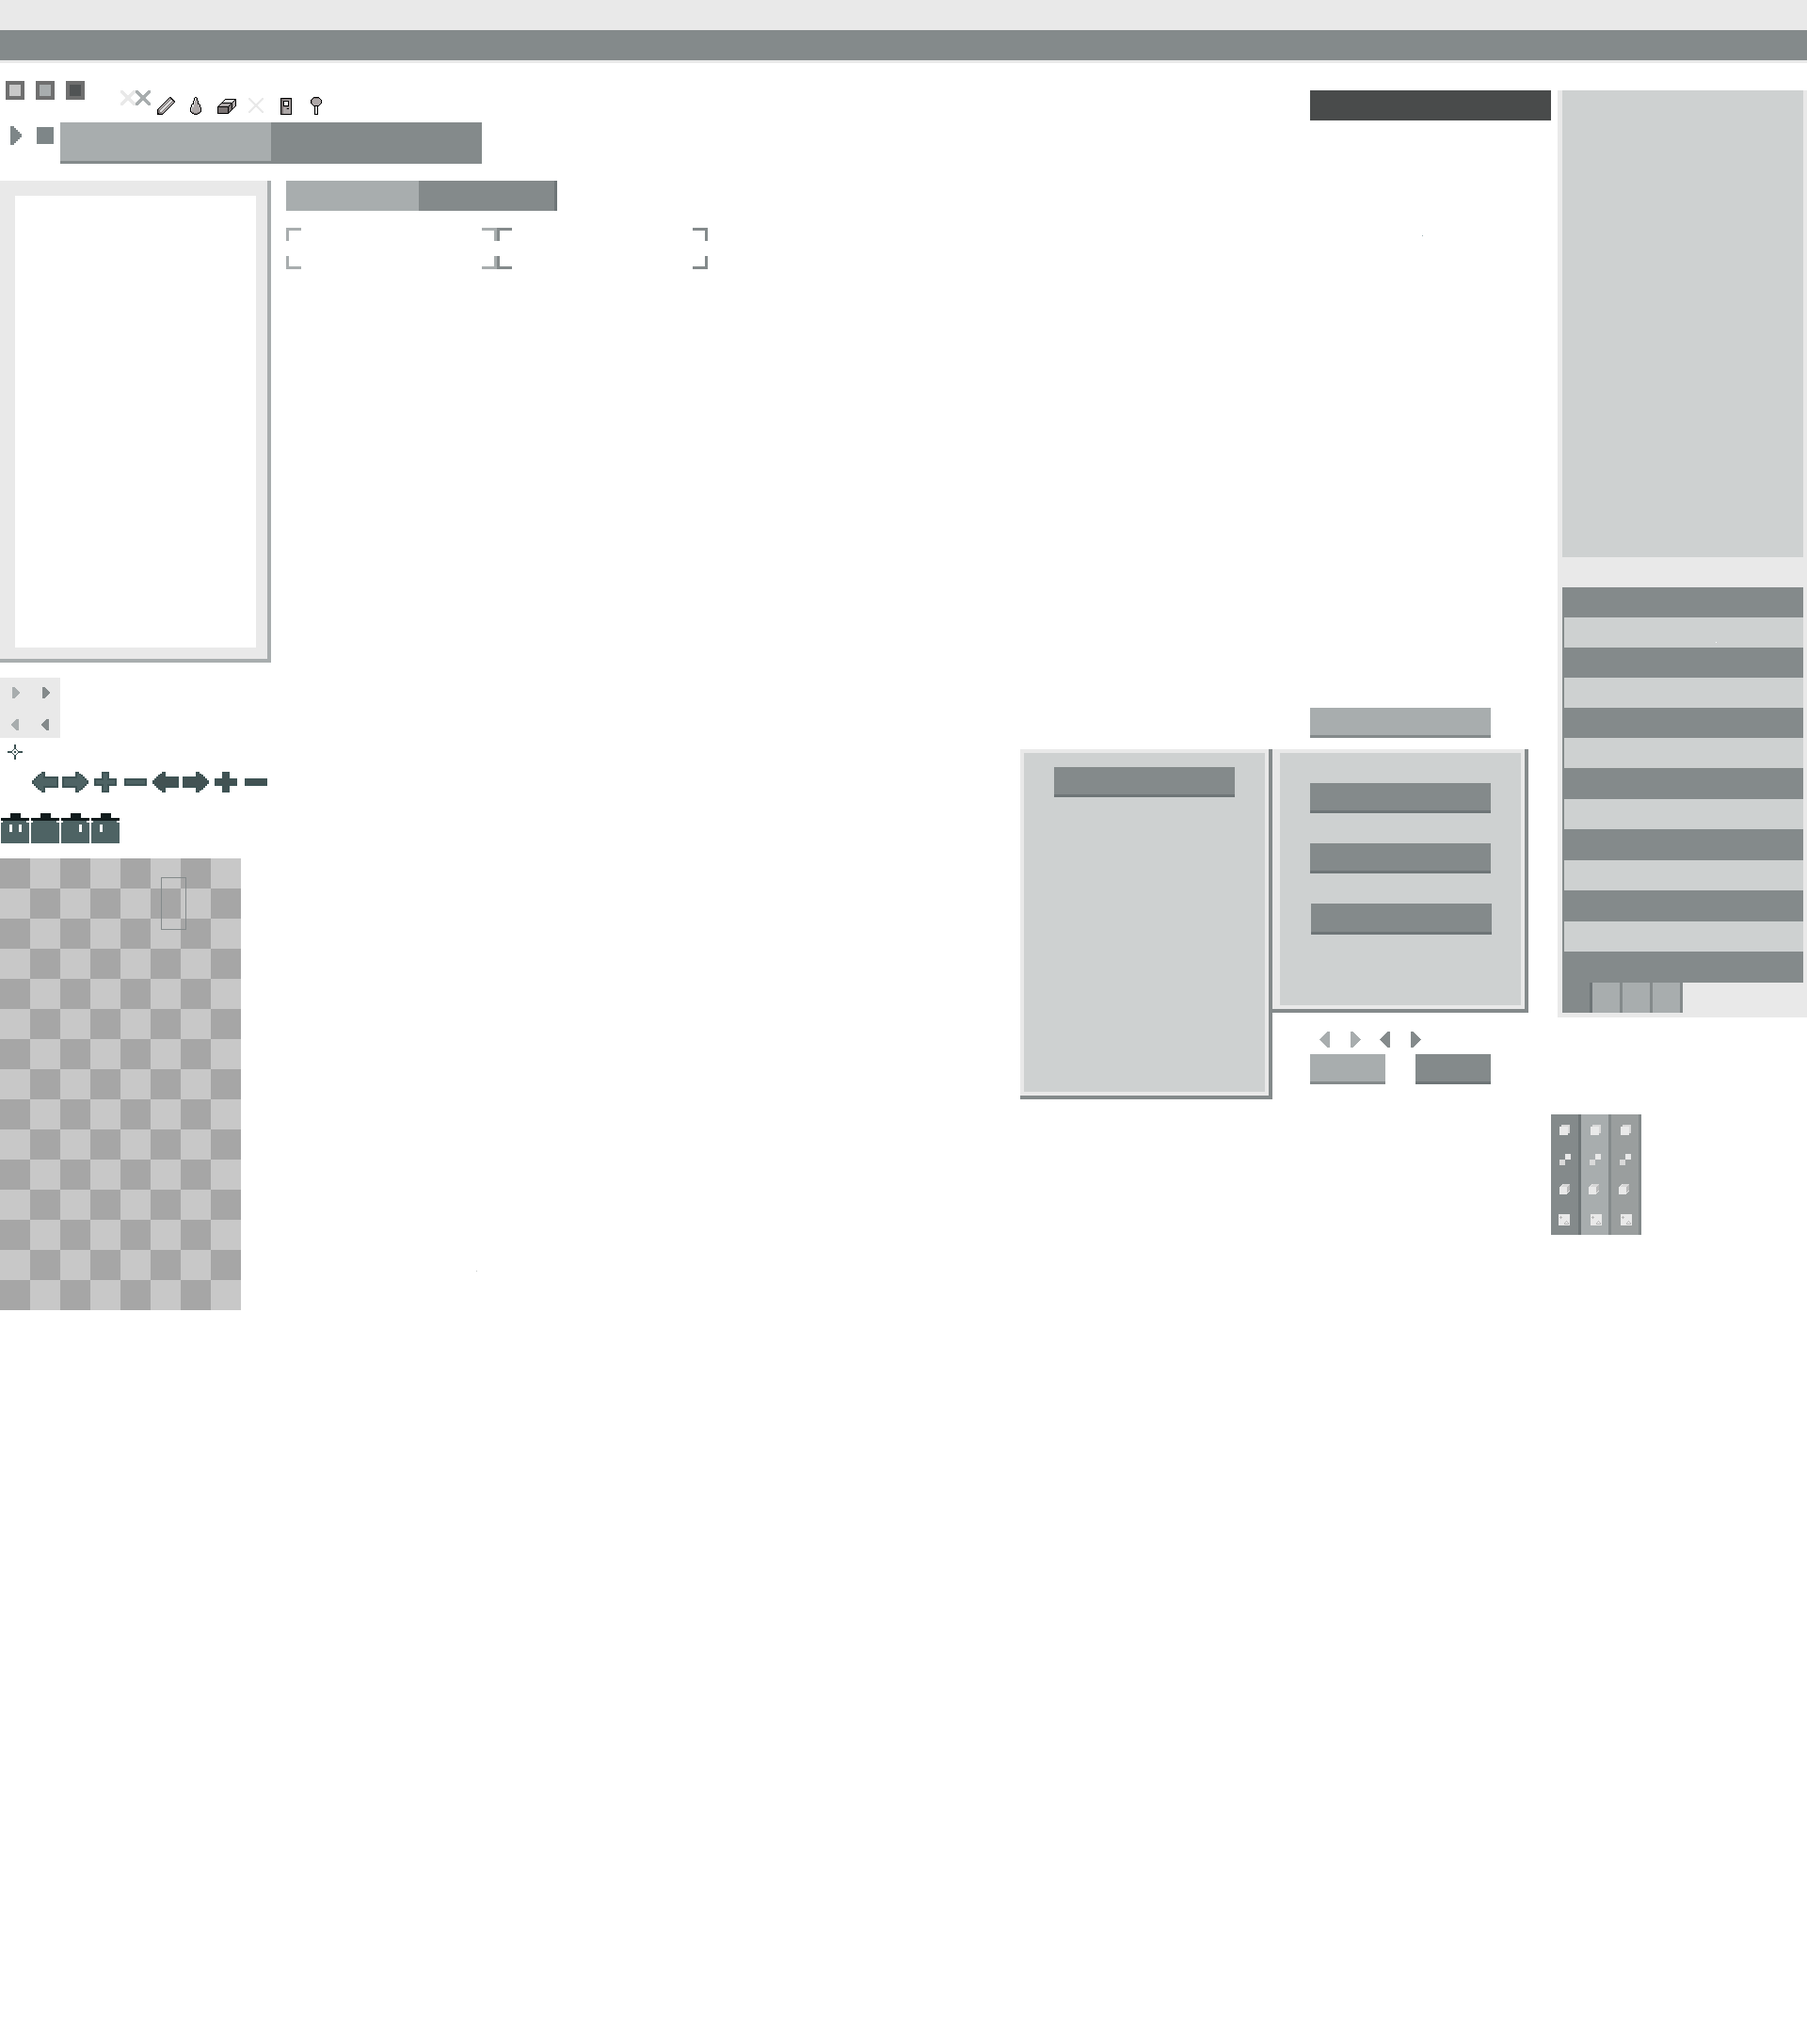
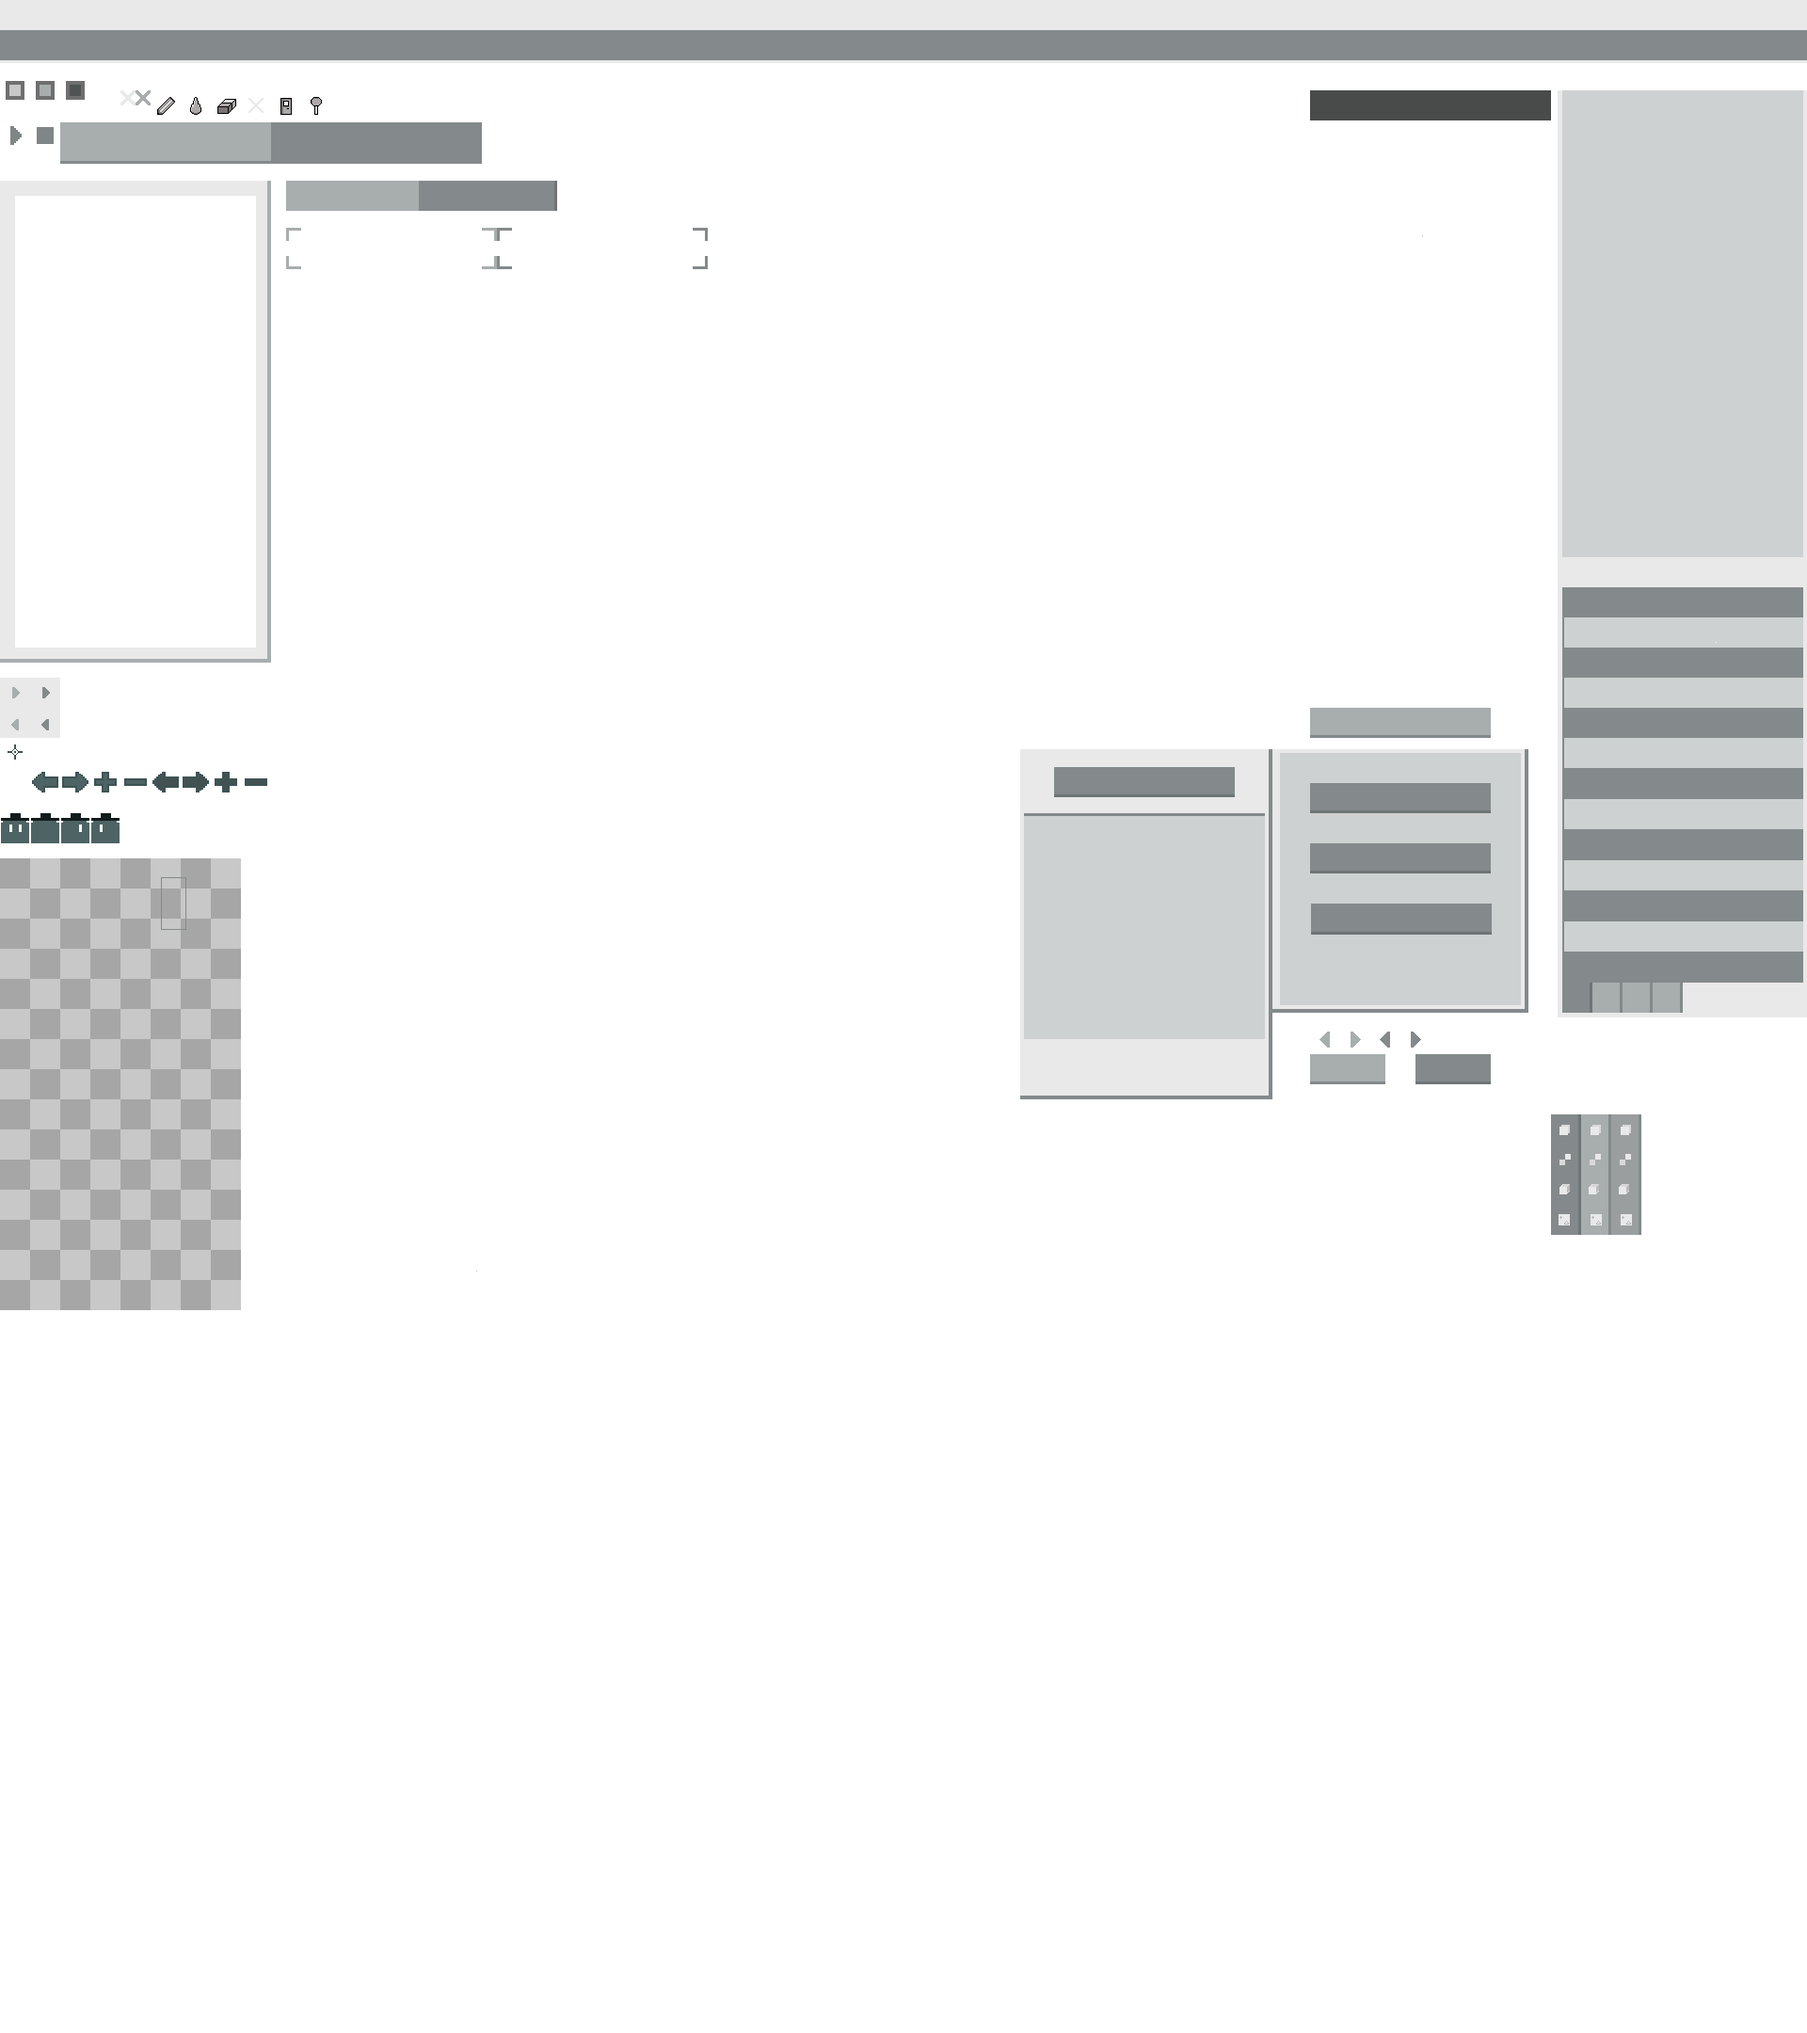
bug fixes

Changed region(s): [[0.5625, 0.4963, 0.7188, 0.5583], [0.5625, 0.3722, 0.7188, 0.4032]]

diff --git a/src/Canvas/ObjectUtil.cs b/src/Canvas/ObjectUtil.cs
@@ -95,6 +95,42 @@ namespace tile_mapper.src.Canvas
             }
         }
 
+        public static void AddObjectProperty()
+        {
+            if (Global.SelectedObject == null)
+                return;
+
+            List<Property> list = Global.SelectedObject.Properties;
+            Property property = new Property();
+            property.ID = "Property " + (list.Count() + 1).ToString();
+            list.Add(property);
+
+            ReloadObjectProperties();
+        }
+
+        public static void ReloadObjectProperties()
+        {
+            GlobalMenus.ObjectProperties.buttons.Clear();
+            GlobalButtons.CreateObjectProperty.IsVisible = true;
+            GlobalMenus.ObjectProperties.buttons.Add(GlobalButtons.CreateObjectProperty);
+
+            if (Global.SelectedObject.Properties.Count() > 0)
+            {
+
+                foreach (var Property in Global.SelectedObject.Properties)
+                {
+                    if (Property != null)
+                    {
+                        Button btn = ScrollMenuUtil.CreateRemovableButton(ButtonAction.SelectProperty, ButtonAction.RemoveProperty, GlobalMenus.ObjectProperties);
+                        btn.Text = Property.ID.ToString();
+                        btn.Property = Property;
+                        GlobalMenus.ObjectProperties.buttons.Add(btn);
+                    }
+                }
+            }
+            ScrollMenuUtil.UpdateListOrder(GlobalMenus.ObjectProperties);
+        }
+
         public static void ReloadLayerProperties()
         {
             GlobalMenus.LayerProperties.buttons.Clear();

diff --git a/src/ClickHandeler.cs b/src/ClickHandeler.cs
@@ -318,12 +318,12 @@ namespace tile_mapper.src
                 case ButtonAction.CancelObject:
                     GlobalMenus.EditObjectMenu.IsVisible = false;
                     GlobalMenus.ObjectProperties.IsVisible = false;
+                    Global.SelectedObject = null;
                     break;
-                
+                case ButtonAction.CreateObjectProperty:
+                    ObjectUtil.AddObjectProperty();
+                    break;
             }
-
-
-
         }
         public static void HandleLeftHold(MouseState mouseState, KeyboardState keyboardState)
         {
@@ -384,12 +384,18 @@ namespace tile_mapper.src
             {
                 case ButtonAction.SelectProperty:
                     if (ButtonClicked.Property != null)
+                    {
                         ObjectUtil.OpenPropertyMenu(ButtonClicked.Property);
+                        GlobalMenus.EditObjectMenu.IsVisible = false;
+                        GlobalMenus.ObjectProperties.IsVisible = false;
+                    }
                     break;
                 case ButtonAction.SelectObject:
                         GlobalMenus.EditObjectMenu.IsVisible = true;
                     GlobalMenus.ObjectProperties.IsVisible = true;
                         GlobalLabels.ObjectName.Text = ButtonClicked.Object.ID;
+                    if(Global.SelectedObject == null)
+                        Global.SelectedObject = ButtonClicked.Object;
                     break;
             }
         }

diff --git a/src/UI/UI_Initializer.cs b/src/UI/UI_Initializer.cs
@@ -282,6 +282,7 @@ namespace tile_mapper.src.UI
             GlobalButtons.CreateObjectProperty = new Button("New Property", new Rectangle(GlobalMenus.ObjectProperties.Destination.X + GlobalMenus.ObjectProperties.Destination.Width / 2 - 224 / 2, GlobalMenus.ObjectProperties.Destination.Y, 224, 48), 528, 304, ButtonAction.CreateObjectProperty, true);
             GlobalButtons.CreateObjectProperty.SourceRect = new Rectangle(304, 240, 224, 48);
             GlobalButtons.CreateObjectProperty.SourceRect.Y = 240;
+            GlobalButtons.CreateObjectProperty.SelectionX = 528;
             GlobalMenus.ObjectProperties.buttons.Add(GlobalButtons.CreateObjectProperty);
             ScrollMenuUtil.UpdateListOrder(GlobalMenus.ObjectProperties);
         }

diff --git a/src/Global.cs b/src/Global.cs
@@ -10,6 +10,7 @@ using static tile_mapper.src.ProgramLoop;
 using tile_mapper.src.UI;
 using tile_mapper.src.Canvas;
 using tile_mapper.src.UserSprites;
+using Object = tile_mapper.src.Canvas.Object;
 
 namespace tile_mapper.src
 {
@@ -84,6 +85,7 @@ namespace tile_mapper.src
         public static Keys LastPressedKey;
         public static Property PropertyEditingCopy;
         public static Rectangle NewAreaCords;
+        public static Object SelectedObject;
 
         public enum KeyboardTypingDest
         {

diff --git a/src/ProgramLoop.cs b/src/ProgramLoop.cs
@@ -104,6 +104,7 @@ namespace tile_mapper.src
             Global.All_UI_Menus.Add(GlobalMenus.TileLabels);
             Global.All_UI_Menus.Add(GlobalMenus.ObjectMenu);
             Global.All_UI_Menus.Add(GlobalMenus.EditObjectMenu);
+            Global.All_UI_Menus.Add(GlobalMenus.ObjectProperties);
 
             // Keep track of the menus in the right UI bar.
             Global.PropertyMenu.Add(GlobalMenus.LayerMenu);

diff --git a/src/Canvas/Objects.cs b/src/Canvas/Objects.cs
@@ -32,7 +32,7 @@ namespace tile_mapper.src.Canvas
         public Rectangle TileRect; // Tile specifying.
         public Rectangle PixelRect; // To adjust pixel specific.
 
-        public List<Property> Properties;
+        public List<Property> Properties = new List<Property>();
     }
 
     internal class Property // User properties.
